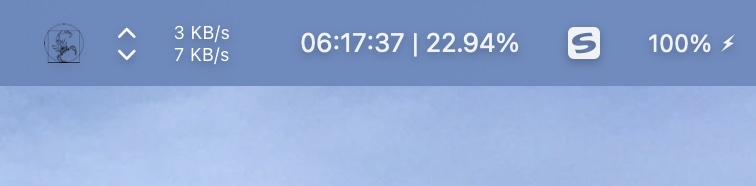
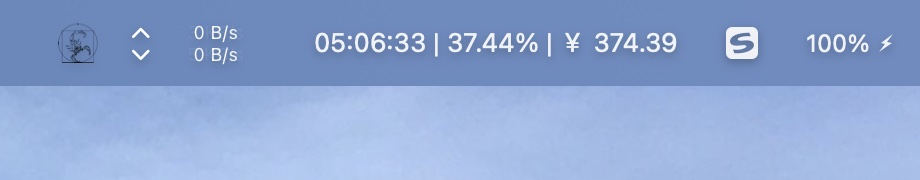
增加日薪计算

diff --git a/monkey.py b/monkey.py
@@ -15,8 +15,9 @@ if sys.platform != 'darwin':
 
 
 CONFIG = {
-    'start_time': '08:20',  # 上班时间
-    'end_time': '16:30',  # 下班时间
+    'start_time': '08:20',  # 你的上班时间
+    'end_time': '16:30',  # 你的下班时间
+    'wage': 1000,  # 你的日薪，不为0时可以实时显示当天已摸多少元子
     'percent': True,  # 是否显示已摸鱼时间百分比
 }
 
@@ -75,6 +76,8 @@ class MonkeyApp(rumps.App):
         try:
             CONFIG['start_time_stamp'] = dateToStamp(time.strftime(f'%Y-%m-%d {CONFIG["start_time"]}:00'))
             CONFIG['end_time_stamp'] = dateToStamp(time.strftime(f'%Y-%m-%d {CONFIG["end_time"]}:00'))
+            if CONFIG['start_time_stamp'] > CONFIG['end_time_stamp']:  # 增加夜班支持
+                CONFIG['end_time_stamp'] += 86400
         except:
             print('上下班时间不正确，请修改')
             sys.exit(0)
@@ -87,6 +90,12 @@ class MonkeyApp(rumps.App):
         title = countdown()
         if CONFIG['percent']:
             title += f' | {calcPercent()}'
+
+        if isinstance(CONFIG['wage'], int) and CONFIG['wage'] > 0:
+            wage = CONFIG['wage'] / (CONFIG['end_time_stamp'] - CONFIG['start_time_stamp']) * (
+                        time.time() - CONFIG['start_time_stamp'])
+            title += ' | ￥ %.2f' % round(wage, 2)
+
         self.title = title
 
 

diff --git a/README.md b/README.md
@@ -1,6 +1,15 @@
 # MonkeyApp
 monkey app - 在Mac状态栏显示蓝队吗喽们的下班倒计时
 ![Alt](img/0.jpg)
+<img src="img/0.gif" width="920">
+### 实时倒计时
+在状态栏显示下班倒计时
+
+### 摸鱼百分比
+在状态栏实时显示当前已上班时间百分比
+
+### 摸鱼收入
+在状态栏实时显示当天已获得的摸鱼收入，看着每秒增加的收入封起 IP 来更有动力！！！
 
 # 怎样使用
 ## 1. 安装第三方模块
@@ -12,13 +21,14 @@ pip3 install rumps
 
 rumps 是一个 Python 模块，用于创建 Mac OS X 应用程序。它提供了一个简单的方式来创建带有菜单栏图标的应用程序，这些应用程序可以执行各种任务，比如显示通知、执行系统命令等。Rumps 特别适合快速开发小型的桌面应用程序，特别是那些需要在后台运行并提供菜单栏访问的应用程序。
 
-## 2. 设置上下班时间
-在monkey.py中第17行修改你实际的上下班时间：
+## 2. 设置相关参数
+在monkey.py中第17行修改你实际的上下班时间(必须)和你的日薪(非必须)：
 ```python
 CONFIG = {
-    'start_time': '08:20',  # 上班时间
-    'end_time': '16:30',  # 下班时间
-    'percent': True,  # 是否显示已摸鱼时间百分比
+    'start_time': '08:20',  # 你的上班时间
+    'end_time': '16:30',  # 你的下班时间
+    'wage': 1000,  # 你的日薪，不为0时可以实时显示当天已摸多少元子
+    'percent': True,  # 是否显示已摸鱼时间百分比，为False时不限时百分比
 }
 ```
 
